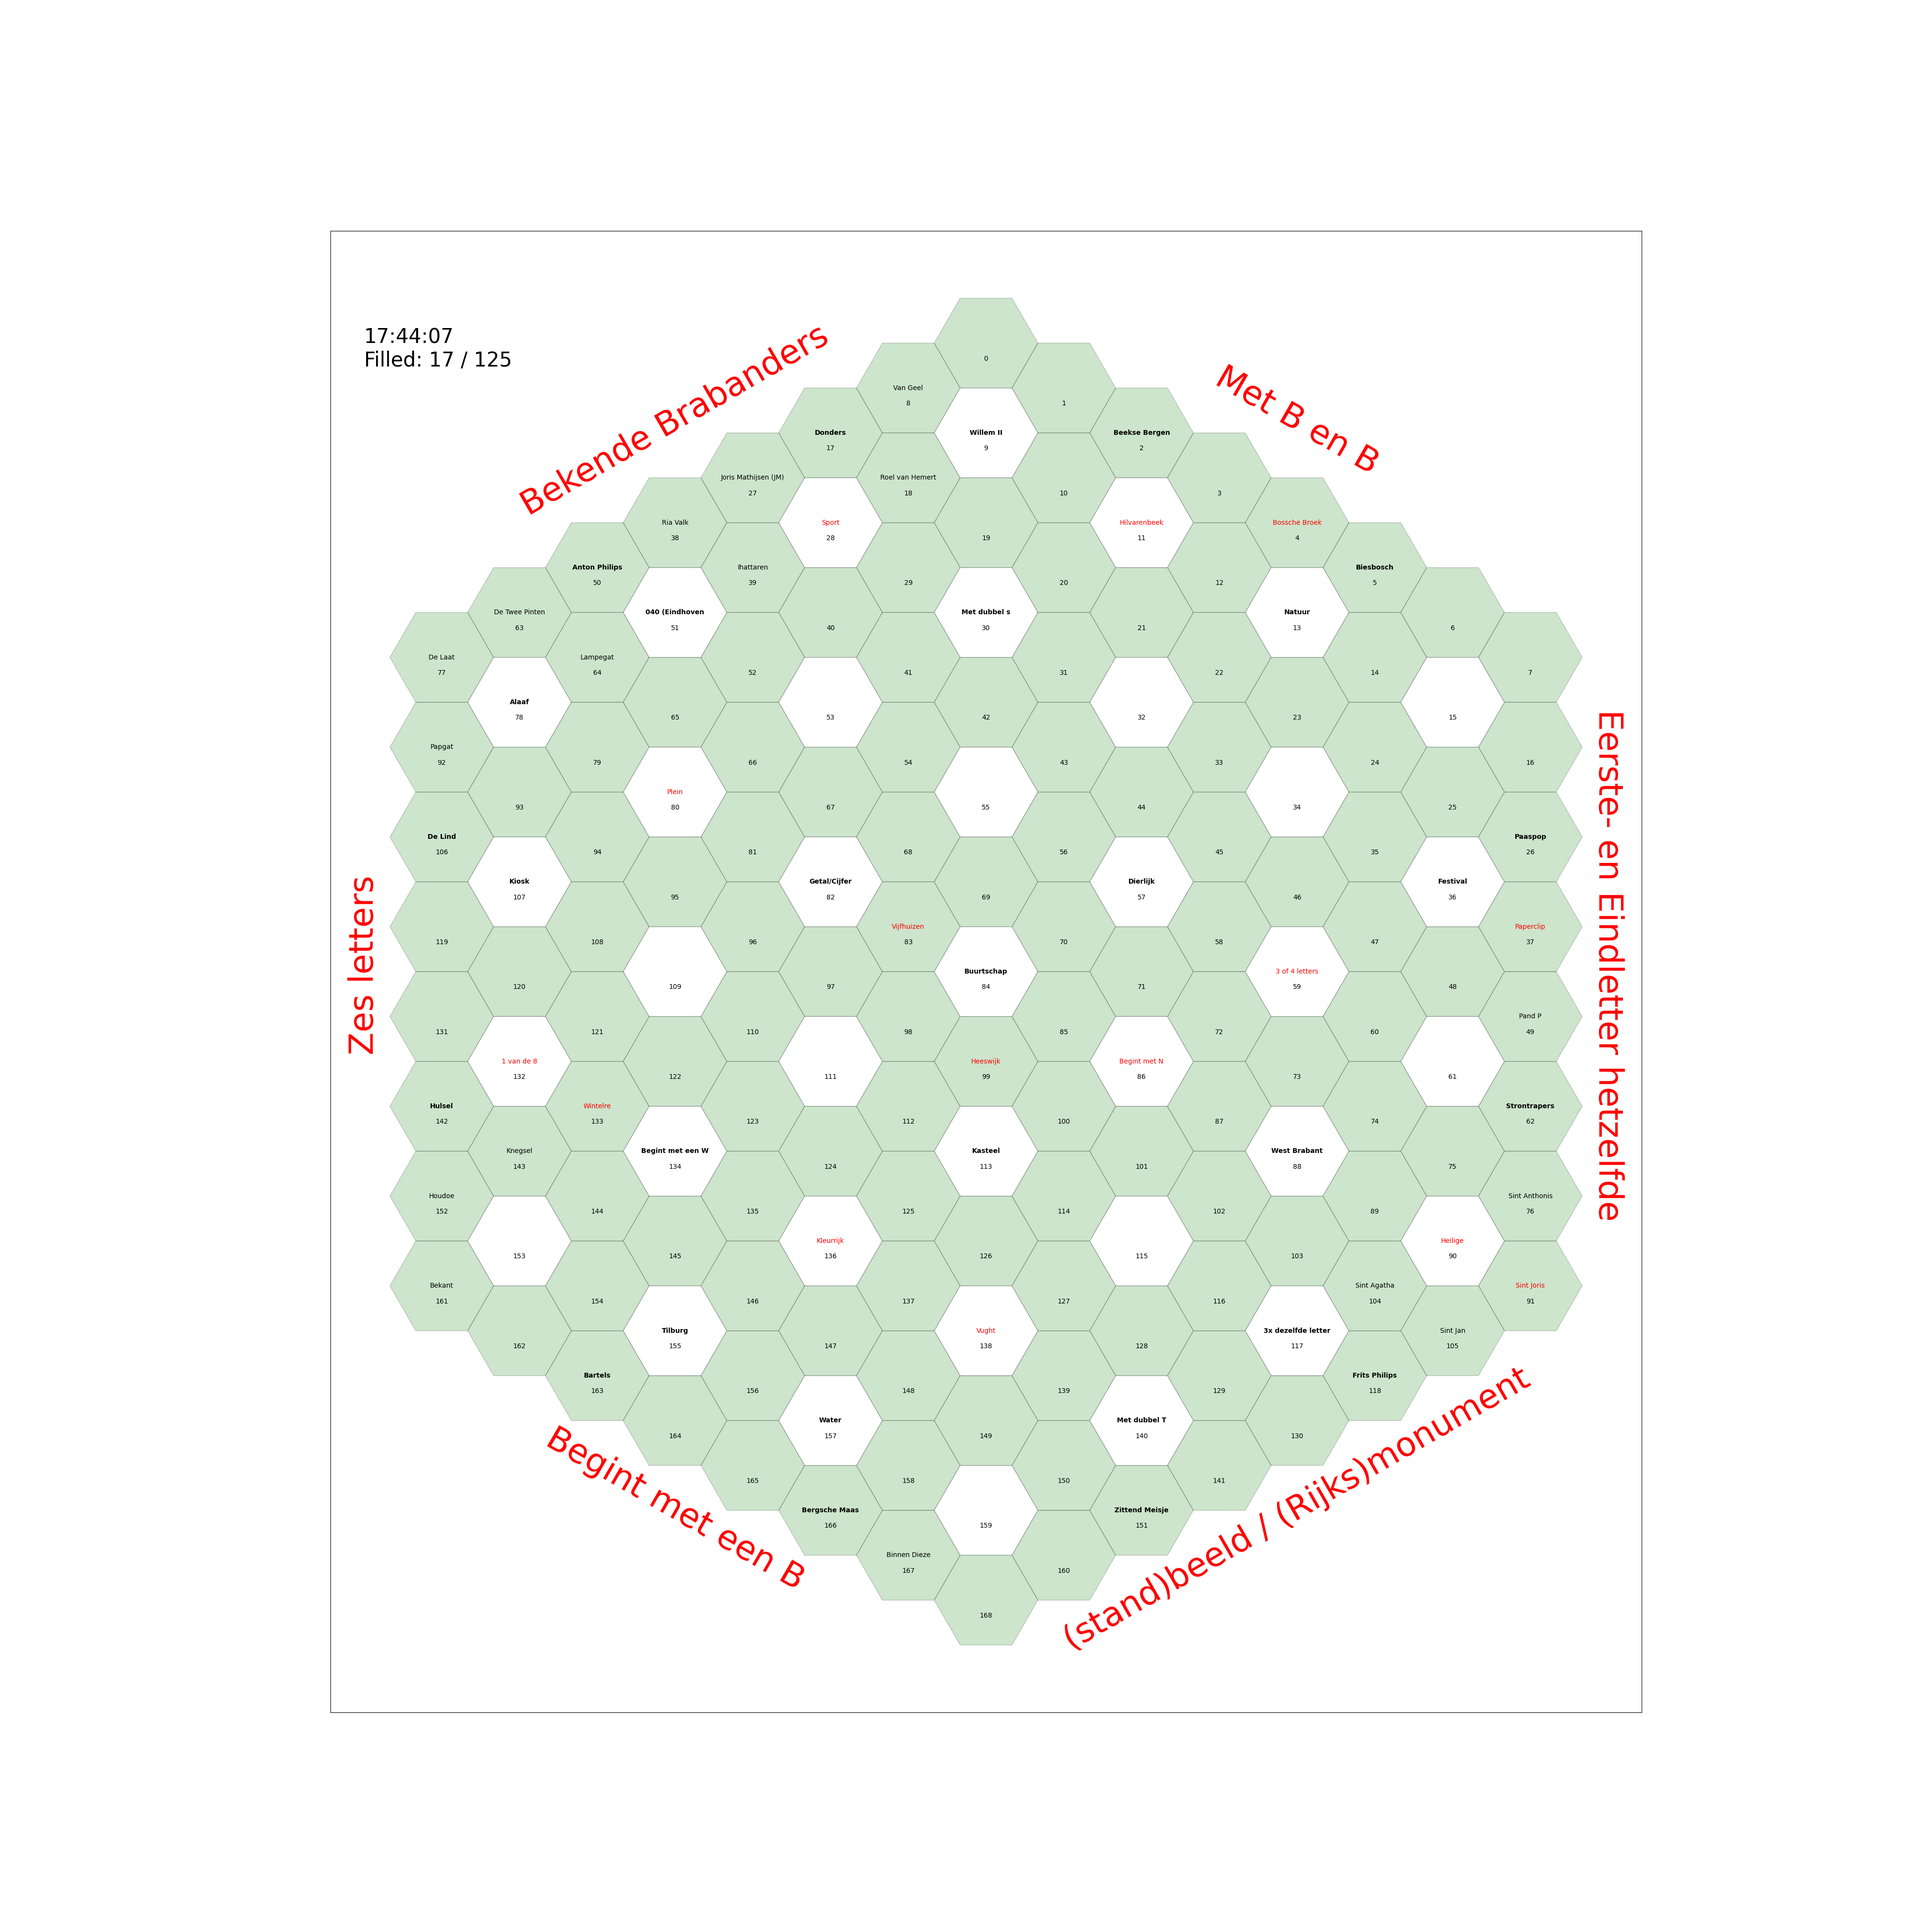
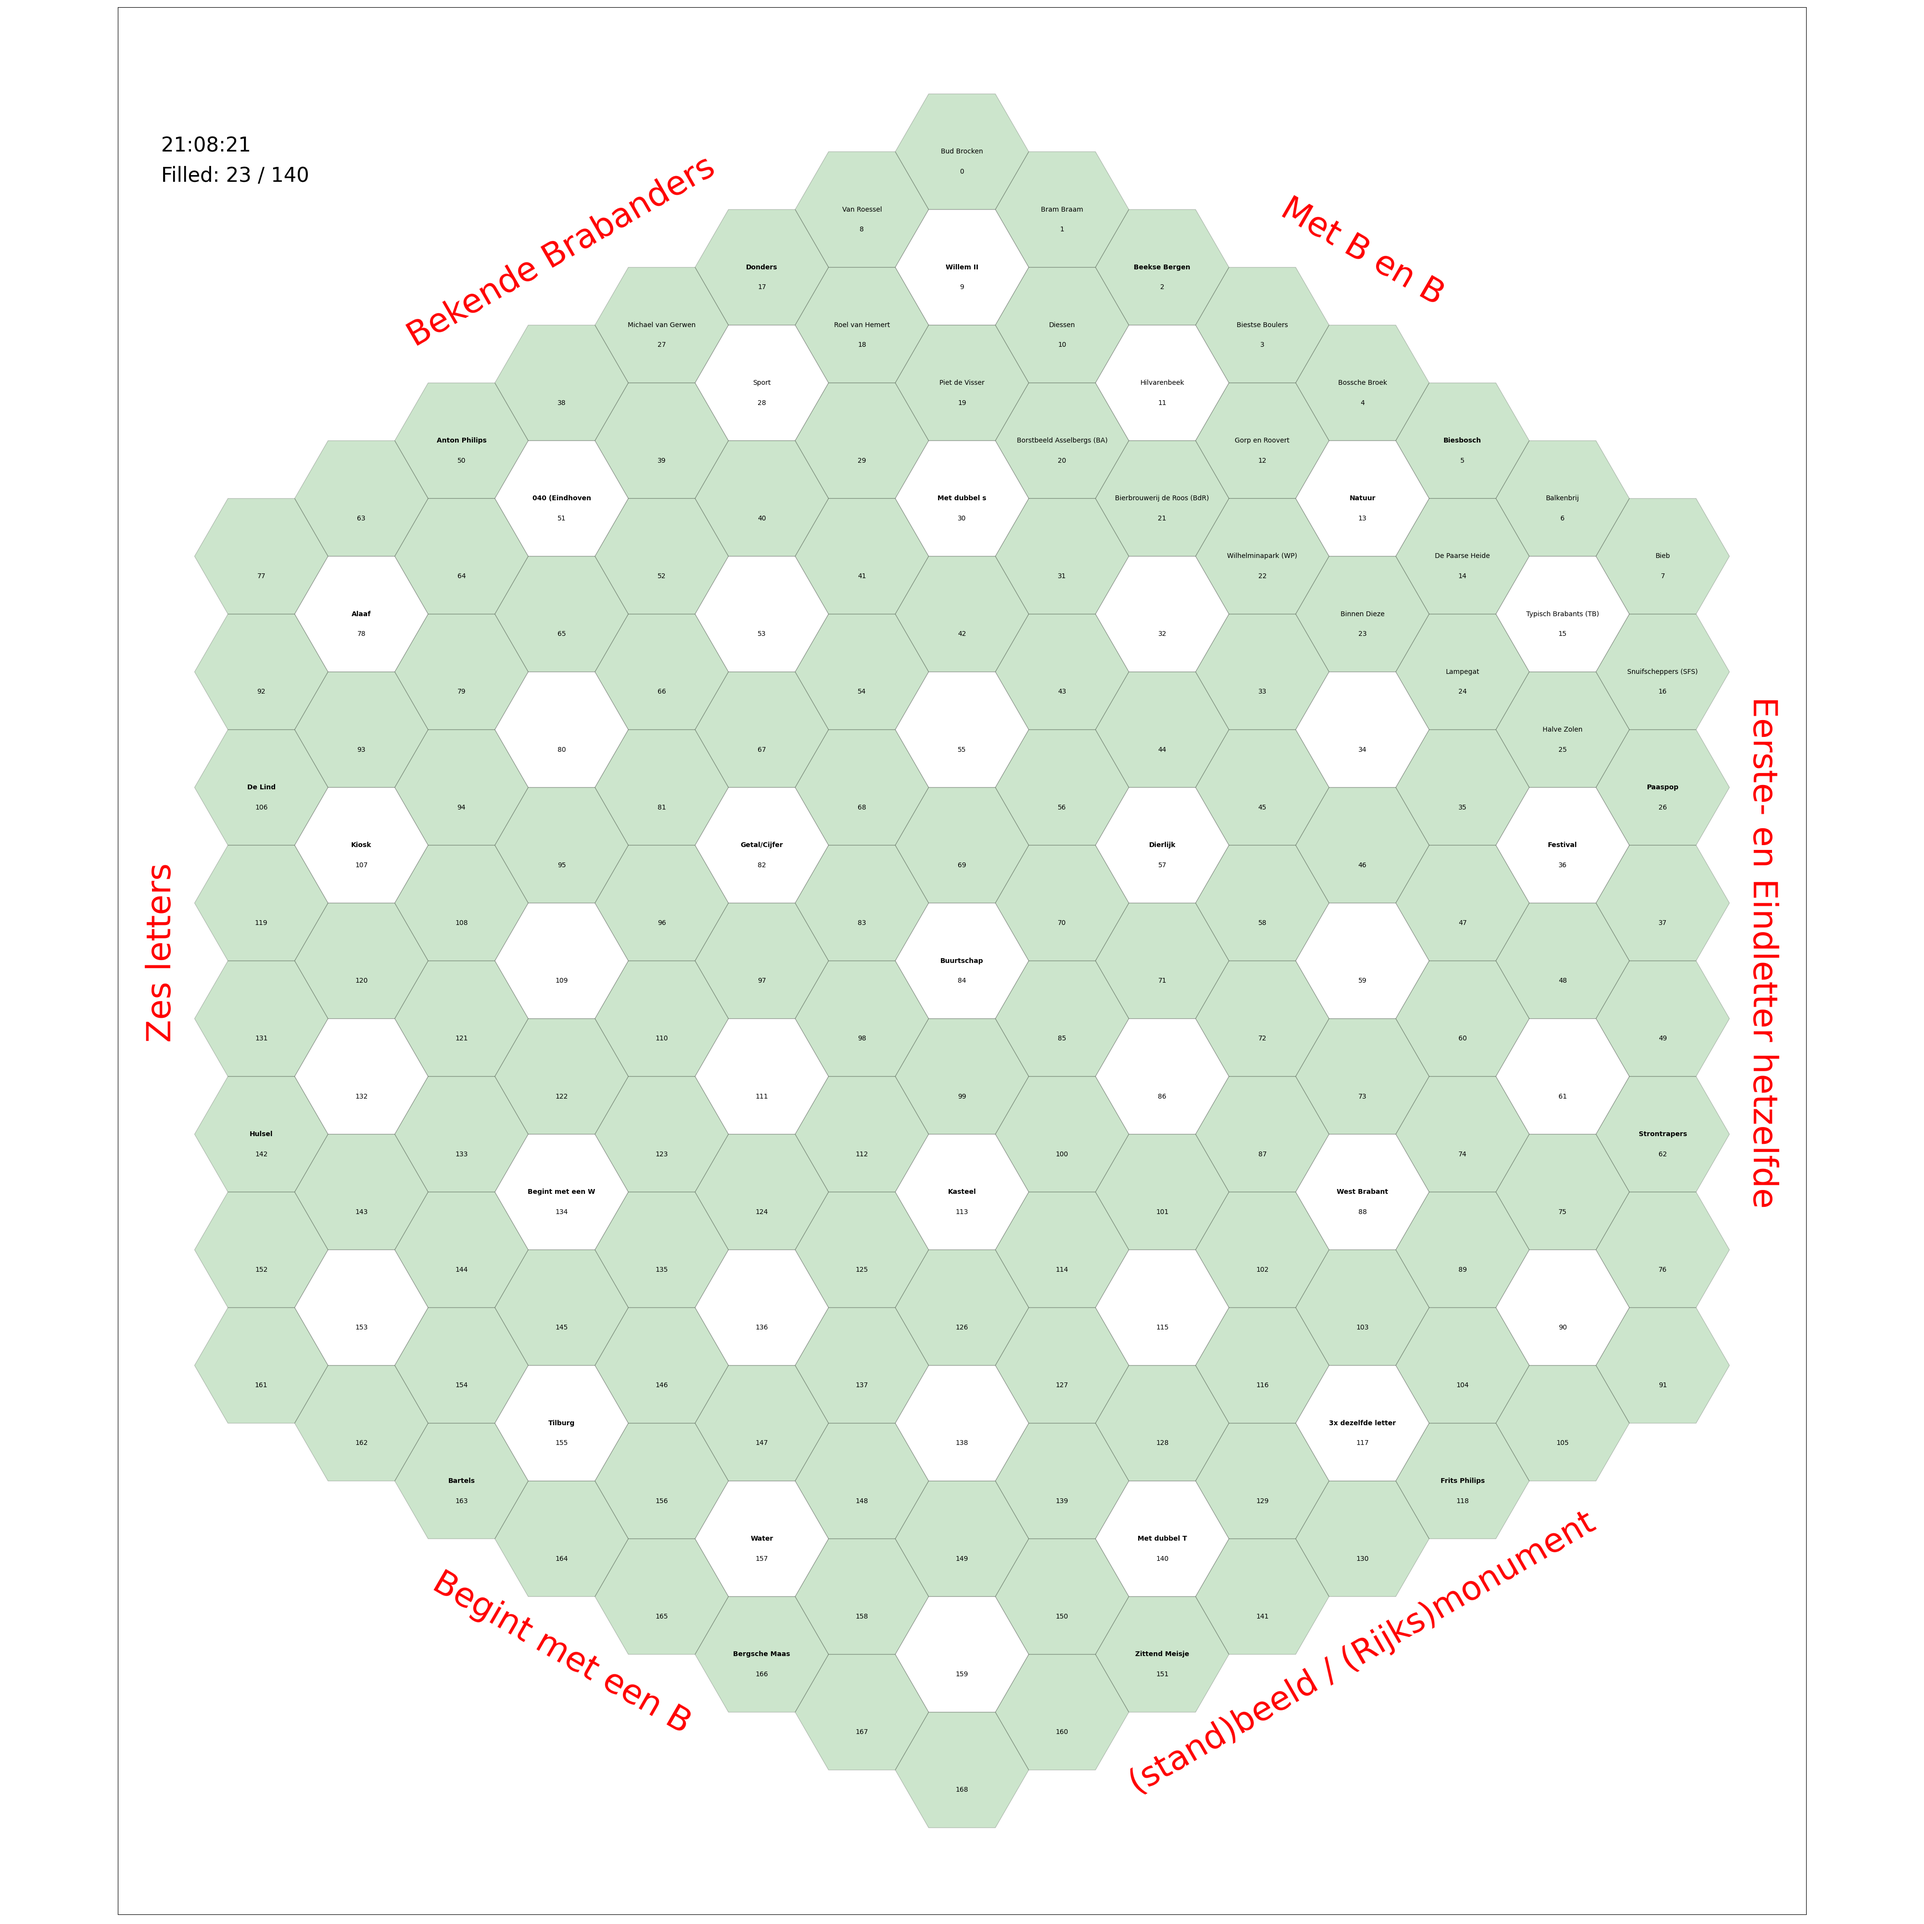
Something might not be working

diff --git a/puzzle/templates/puzzle/solution.html b/puzzle/templates/puzzle/solution.html
@@ -1,0 +1,14 @@
+{% load static %}
+<!DOCTYPE html>
+<html lang="en">
+<head>
+    <meta charset="UTF-8">
+    <meta http-equiv="refresh" content="5"/>
+    <title>Solution</title>
+</head>
+<body>
+
+<img src="{% static 'puzzle/images/latest_solution.png' %}" alt="Solution" width="1500" height="1500">
+
+</body>
+</html>

diff --git a/brabant_puzzle/solve_puzzle.py b/brabant_puzzle/solve_puzzle.py
@@ -125,7 +125,7 @@ class Solver:
         return True, matches
 
     def get_neighbor_states(self, S, visited):
-        stop_ind = None
+        stop_adding = False
         options = defaultdict(int)
 
         neighbors = []
@@ -133,11 +133,9 @@ class Solver:
         if self.settings["mode"] == "reverse":
             lst = reversed(list(enumerate(S)))
         else:
-            lst = list(enumerate(S))
+            lst = enumerate(S)
 
         for cell, fill in lst:
-            stop_ind = None
-
             if fill is None:
                 if cell in category_cells:
                     for category in [self.all_options.index(x) for x in categorieen]:
@@ -146,7 +144,7 @@ class Solver:
                             new_S = copy.copy(S)
 
                             new_S[cell] = category
-                            if new_S not in visited:
+                            if new_S not in visited and not stop_adding:
                                 neighbors.append((category, new_S, matches))
 
                             options[category] += 1
@@ -157,19 +155,17 @@ class Solver:
                             new_S = copy.copy(S)
 
                             new_S[cell] = antwoord
-                            if new_S not in visited:
+                            if new_S not in visited and not stop_adding:
                                 neighbors.append((antwoord, new_S, matches))
 
                             options[antwoord] += 1
 
-                if self.settings["mode"] != "random" and stop_ind is None:
-                    stop_ind = len(neighbors)
+                if self.settings["mode"] != "random" and not stop_adding:
+                    stop_adding = True
+                    if "star" not in self.settings["algorithm"]:
+                        break
 
-        if stop_ind is None:
-            random.shuffle(neighbors)
-        else:
-            neighbors = neighbors[:stop_ind]
-            random.shuffle(neighbors)
+        # random.shuffle(neighbors)
 
         return neighbors, options
 

diff --git a/puzzle/views.py b/puzzle/views.py
@@ -32,15 +32,7 @@ def index(request):
 
 
 def solution(request):
-    image_path = "puzzle/static/puzzle/images/latest_solution.png"
-    try:
-        with open(image_path, "rb") as f:
-            return HttpResponse(f.read(), content_type="image/jpeg")
-    except IOError:
-        red = Image.new('RGBA', (1, 1), (255, 0, 0, 0))
-        response = HttpResponse(content_type="image/jpeg")
-        red.save(response, "JPEG")
-        return response
+    return render(request, 'puzzle/solution.html')
 
 
 def upload(request):
@@ -65,7 +57,7 @@ def upload(request):
                 file_instance = UploadFile(files=f)
                 file_instance.save()
 
-                return redirect("/puzzle/index")
+                return redirect("/puzzle/")
     else:
         form = UploadFileForm()
 
@@ -170,6 +162,8 @@ def settings(request):
 
             with open('brabant_puzzle/settings.txt', 'w') as f:
                 json.dump(data, f)
+
+            return redirect("/puzzle/")
 
     else:
         form = SettingsForm()

diff --git a/brabant_puzzle/utils.py b/brabant_puzzle/utils.py
@@ -5,7 +5,7 @@ from brabant_puzzle.fill_answers import categorieen, antwoorden
 
 
 def get_filename():
-    filename = sorted(os.listdir("/home/rob/Documents/puzzleDjango/excel_files/"), key=lambda x: x[:4:-5])[-1]
+    filename = sorted(os.listdir("/home/rob/Documents/puzzleDjango/excel_files/"), key=lambda x: int(x[4:-5]))[-16]
     filename = "/home/rob/Documents/puzzleDjango/excel_files/" + filename
 
     return filename

diff --git a/brabant_puzzle/plot_hexagon.py b/brabant_puzzle/plot_hexagon.py
@@ -112,6 +112,7 @@ class Plotter:
         ax.axes.get_xaxis().set_visible(False)
         ax.axes.get_yaxis().set_visible(False)
 
+        self.fig.tight_layout()
         self.fig.savefig(self.filepath)
         plt.close(self.fig)
 

diff --git a/puzzleDjango/settings.py b/puzzleDjango/settings.py
@@ -120,4 +120,4 @@ USE_TZ = True
 # Static files (CSS, JavaScript, Images)
 # https://docs.djangoproject.com/en/3.1/howto/static-files/
 
-STATIC_URL = '/puzzle/static/'
+STATIC_URL = '/static/'
